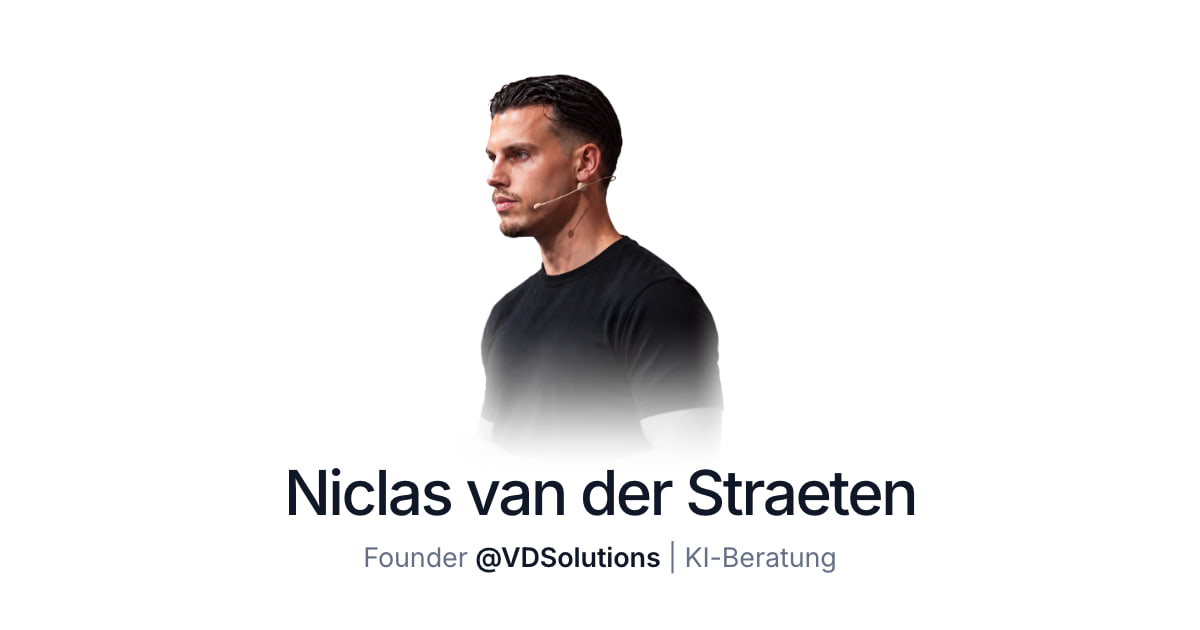
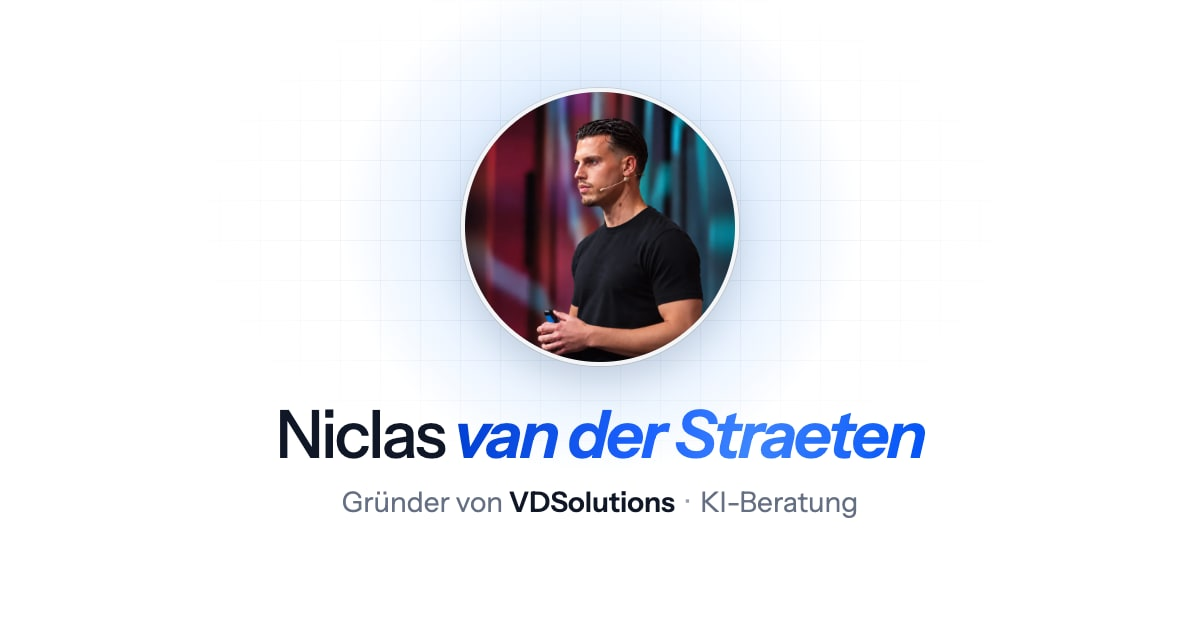
New share image and a calmer role line
The role now reads "Gründer von VDSolutions · KI-Beratung" on the page,
in the share titles and in the structured data. The share image is
rebuilt to match the current header: round picture, grid and glow, blue
italic surname.

Changed region(s): [[0.2158, 0.0905, 0.7708, 0.8143], [0.3083, 0.8444, 0.7092, 0.9048]]

diff --git a/index.html b/index.html
@@ -19,14 +19,14 @@
   <meta property="og:site_name" content="Niclas van der Straeten" />
   <meta property="og:locale" content="de_DE" />
   <meta property="og:url" content="https://niclasvanderstraeten.com/" />
-  <meta property="og:title" content="Niclas van der Straeten — Gründer @VDSolutions | KI-Beratung" />
+  <meta property="og:title" content="Niclas van der Straeten — Gründer von VDSolutions · KI-Beratung" />
   <meta property="og:description" content="Buche ein kostenloses Erstgespräch, besuche VDSolutions oder nimm direkt Kontakt auf." />
   <meta property="og:image" content="https://niclasvanderstraeten.com/assets/og-image.jpg" />
   <meta property="og:image:width" content="1200" />
   <meta property="og:image:height" content="630" />
-  <meta property="og:image:alt" content="Niclas van der Straeten auf der Bühne, darunter Name und Rolle" />
+  <meta property="og:image:alt" content="Rundes Profilbild von Niclas van der Straeten auf der Bühne, darunter Name und Rolle" />
   <meta name="twitter:card" content="summary_large_image" />
-  <meta name="twitter:title" content="Niclas van der Straeten — Gründer @VDSolutions | KI-Beratung" />
+  <meta name="twitter:title" content="Niclas van der Straeten — Gründer von VDSolutions · KI-Beratung" />
   <meta name="twitter:description" content="Buche ein kostenloses Erstgespräch, besuche VDSolutions oder nimm direkt Kontakt auf." />
   <meta name="twitter:image" content="https://niclasvanderstraeten.com/assets/og-image.jpg" />
 
@@ -40,7 +40,7 @@
     "name": "Niclas van der Straeten",
     "url": "https://niclasvanderstraeten.com/",
     "image": "https://niclasvanderstraeten.com/assets/niclas-avatar.webp",
-    "jobTitle": "Founder",
+    "jobTitle": "Gründer",
     "description": "KI-Beratung, Automatisierung und Business OS",
     "worksFor": { "@type": "Organization", "name": "VDSolutions" },
     "address": { "@type": "PostalAddress", "addressLocality": "Frankfurt am Main", "addressCountry": "DE" },
@@ -71,7 +71,7 @@
         </nav>
       </div>
       <h1 class="name">Niclas <span class="name__accent">van&nbsp;der&nbsp;Straeten</span></h1>
-      <p class="bio"><span>Gr&uuml;nder</span> <strong>@VDSolutions</strong> | <span>KI-Beratung</span><span class="bio__services"><span>Ich mache KI zu Ihrem messbaren Vorteil</span>&nbsp;<span aria-hidden="true">&#x26A1;</span></span></p>
+      <p class="bio"><span>Gr&uuml;nder von</span> <strong>VDSolutions</strong> <span class="bio__sep" aria-hidden="true">·</span> <span>KI-Beratung</span><span class="bio__services"><span>Ich mache KI zu Ihrem messbaren Vorteil</span>&nbsp;<span aria-hidden="true">&#x26A1;</span></span></p>
     </header>
 
     <section class="link-section" aria-label="Links">

diff --git a/styles.css b/styles.css
@@ -323,6 +323,11 @@ body {
   color: var(--text);
   font-weight: 600;
 }
+/* Mittelpunkt als ruhiger Trenner statt senkrechtem Strich */
+.bio__sep {
+  margin-inline: 0.15em;
+  color: var(--label);
+}
 
 /* Leistungszeile eine Stufe leiser als die Rollenzeile darüber. Die
    kleinere Stufe hält sie außerdem auf einer Zeile — bei voller Größe
@@ -338,8 +343,13 @@ body {
 }
 /* Auf schmalen Handys fehlen dem Satz samt Blitz wenige Pixel zur einen Zeile */
 @media (max-width: 359px) {
+  /* Die Rollenzeile „Gründer von VDSolutions · KI-Beratung“ bleibt so auch
+     auf dem kleinsten Handy einzeilig */
+  .bio {
+    font-size: 0.86rem;
+  }
   .bio__services {
-    font-size: 0.86em;
+    font-size: 0.93em;
   }
 }
 
